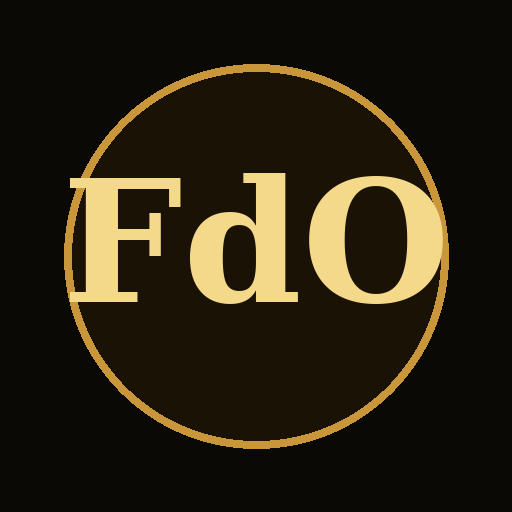
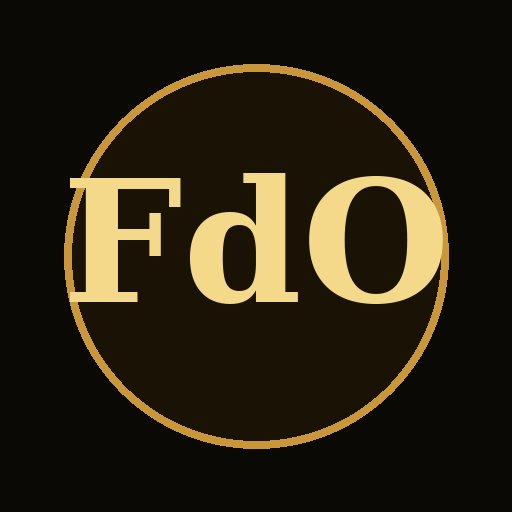
Add files via upload

Changed region(s): [[0.0938, 0.0938, 0.875, 0.875], [0.0, 0.0, 1.0, 1.0]]

diff --git a/index.html b/index.html
@@ -2,27 +2,30 @@
 <html lang="pt-BR">
 <head>
   <!-- ════════════════════════════════════════════════════════════
-       FOLHADOS D'OURO — OBS 16/06/2026 (atualização v11)
-       NOVIDADES v11:
-       • ALARME do batimento muito mais forte: sequência de 6 apitos
-         altos e longos + vibração + voz REPETIDA (toca mesmo com o
-         autofalante desligado). Áudio destravado ao tocar "Iniciar batida".
-       • ORDEM DOS ITENS no porcionamento: Balde 1 (secos) → SAL e
-         MANTEIGA → Balde 2 (água/gelo e leite) → Aproveitamento.
-       • Balde 1 concluído: o cartão do passo é ocultado para os botões
-         "Continuar receita →" / "+ Outro balde" caberem e serem clicáveis.
-       • Botões de navegação (Voltar/Repetir/Próximo) agora encolhem e
-         cabem em telas estreitas (não cortam mais).
-       --- base v10 ---
-       • Bater a Massa cronometrado (confere balde 1 e 2, avisos por tempo,
-         peso ÷8). Tempos no Config (4/6/3/2). Calculadora no porcionamento
-         e batimento + por voz. Etiqueta inclui líquidos do balde 2.
-         Receita 2: aproveitamento 3000 g.
-       --- base v9/v8/v7 ---
-       • Etiqueta 60×50 (MDK-022 BT/imagem). Lotes (apagar cascata,
-         reiniciar numeração). Fermentação (mín/máx). PIN só no
-         Porcionamento. Autofalante 🔊/🔇. Divisão por voz. Wake Lock.
-       • Service Worker: cache fdo-v11.
+       FOLHADOS D'OURO — OBS 18/06/2026 (atualização v13)
+       NOVIDADES v13 (porcionamento de secos + bater a massa):
+       • Temperatura da Noite: agora só DUAS opções, ambas 17°C, escolhidas
+         pelo tempo de fermentação — fermento 70 g (14 h) ou 64 g (17 h).
+       • No 1º passo dos secos, "Voltar" sai para o menu inicial (antes
+         não fazia nada).
+       • Entre farinhas do mesmo balde, a voz não diz mais "Concluído";
+         fala só o nome da farinha e o total acumulado.
+       • Finalização dos secos: removida a opção "+ Outro balde de secos"
+         (cada porcionamento de secos já gera um novo lote).
+       • Voz ao finalizar: só "concluído + número do lote" (sem "marque na
+         massa" e sem "imprima a etiqueta"); o aviso na tela continua.
+       • Bater a Massa: o balde 1 mostra também fermento (já no balde),
+         sal e manteiga (pesados à parte p/ o batimento).
+       --- base v12 ---
+       • Porcionamento dividido em Secos (gera lote + etiqueta) e Líquidos.
+         Bater a Massa só com secos E líquidos prontos. Receita 3 PADRÃO.
+         Senha própria das Configurações. Microfone já ligado no peso do
+         batimento. Cronômetro resiste ao segundo plano. Impressão MDK-022
+         com seletor ESC/POS · TSPL · CPCL, teste rápido e diagnóstico.
+       --- base v11/v10/v9/v8/v7 ---
+       • Alarme forte do batimento. Lotes numerados/apagáveis. Fermentação.
+         PIN do Porcionamento. Autofalante 🔊/🔇. Calculadora. Wake Lock.
+       • Service Worker: cache fdo-v13.
        ════════════════════════════════════════════════════════════ -->
   <meta charset="UTF-8">
   <meta name="viewport" content="width=device-width,initial-scale=1,maximum-scale=1,user-scalable=no,viewport-fit=cover">
@@ -192,6 +195,7 @@
     .temp-btn:active{opacity:.8;transform:scale(.97)}
     .temp-c{font-size:1.6rem;font-weight:bold;color:var(--gold);line-height:1}
     .temp-f{font-size:.72rem;color:var(--mut)}
+    .temp-horas{font-size:.7rem;color:var(--gl);font-weight:bold;margin-top:.1rem}
 
     /* ══ CONFIG ══ */
     #s-config{padding:1.5rem 1.3rem;gap:.7rem;justify-content:flex-start;overflow-y:auto}
@@ -546,7 +550,7 @@
     <div class="start-icon">🌡️</div>
     <div class="start-brand">Folhados d'Ouro</div>
     <div class="start-title">Temperatura da Noite</div>
-    <div class="start-sub">Quantos graus estão previstos?</div>
+    <div class="start-sub">Escolha o tempo de fermentação</div>
   </div>
   <div class="modulos-label">Define a quantidade de fermento seco</div>
   <div class="temp-grid" id="temp-grid"></div>
@@ -579,13 +583,12 @@
   </div>
   <div class="pergunta-secos" id="pergunta-secos"></div>
   <div class="nav" id="nav-normal">
-    <button class="nbtn" onclick="irPasso(st.step-1)">← Voltar</button>
+    <button class="nbtn" onclick="voltarPasso()">← Voltar</button>
     <button class="nbtn" onclick="repetir()">🔊 Repetir</button>
     <button class="nbtn next" onclick="avancar()">Próximo →</button>
   </div>
   <div class="nav-secos" id="nav-secos">
     <button class="nbtn next secos-continuar" onclick="finalizarSecos()">Finalizar e gerar lote →</button>
-    <button class="nbtn secos secos-novo" onclick="iniciarOutroBaldeSecos()">+ Outro balde de secos</button>
   </div>
   <div class="list" id="lista"></div>
   <div class="ai" id="ai-box" style="display:none">
@@ -848,7 +851,17 @@
 
 <script>
 // Fermento seco em gramas por temperatura prevista para a noite
+// (tabela mantida para conferência de lotes antigos)
 const TEMP_FERMENTO = {15:120,16:112,17:104,18:96,19:90,20:84,21:78,22:74,23:68,24:64};
+
+// Opções de fermento mostradas na tela "Temperatura da Noite".
+// Hoje são duas, ambas a 17°C, escolhidas pelo TEMPO de fermentação desejado:
+//   • mais fermento  → fermenta mais rápido (menos horas)
+//   • menos fermento → fermenta mais devagar (mais horas)
+const OPCOES_FERMENTO = [
+  {temp:17, fermento:70, horas:14},
+  {temp:17, fermento:64, horas:17},
+];
 
 // Peso do balde 1 vazio (tara), para conferência na balança
 const PESO_BALDE1 = 474;
@@ -978,7 +991,7 @@ const CMD = {
 };
 function matchCmd(txt,g){return CMD[g].some(p=>txt.includes(p));}
 
-const st={step:0,done:new Set(),sessionStart:0,rec:null,aiTimer:null,ts:0,temp:null,receita:'r1',modo:'normal',subModulo:'secos',baldeSecos:1,wakeLock:null,
+const st={step:0,done:new Set(),sessionStart:0,rec:null,aiTimer:null,ts:0,temp:null,fermento:null,fermentoHoras:null,receita:'r1',modo:'normal',subModulo:'secos',baldeSecos:1,wakeLock:null,
   pinBuf:'',pinAlvo:null,pinTipo:'producao',batLote:null,liqLote:null,batTemp:20,batStart:0,batRodando:false,batRecPeso:null,
   ultimoLoteId:null,calcRet:'start',calcAberta:false,etqLote:null,etqRet:'start',
   fermLote:null,fermStart:0,fermMin:24,fermMax:28};
@@ -1159,7 +1172,7 @@ function criarLoteSecos(){
     criado:agora.toLocaleString('pt-BR'), criadoTs:agora.getTime(),
     etapas:{ porcionamento_secos:{
       feito:true, em:agora.toLocaleString('pt-BR'), emTs:agora.getTime(),
-      op:getOp(), temp:st.temp, baldes_secos:st.baldeSecos||1,
+      op:getOp(), temp:st.temp, fermento_g:st.fermento, fermento_horas:st.fermentoHoras, baldes_secos:st.baldeSecos||1,
       total_g:totalReceitaFull(st.receita), peso_secos_g:pesoBaldeSecosAtual(),
       concluidos:st.done.size, total:RECEITA.length,
       dur:Math.round((Date.now()-st.sessionStart)/60000)
@@ -1280,13 +1293,31 @@ function getBatT3(){ return Number(LS.g('fdo_bat_t3',3))||3; }   // depois → m
 function getBatT4(){ return Number(LS.g('fdo_bat_t4',2))||2; }   // depois → ponto de véu (22°C)
 function getBatDiv(){ return Number(LS.g('fdo_bat_div',8))||8; } // partes para gelar
 
+// Fermento (g) deste lote: prefere o valor gravado; cai p/ a tabela por temperatura; por fim, o padrão da receita
+function loteFermentoG(lote){
+  const e=(lote&&lote.etapas)||{};
+  const ps=e.porcionamento_secos||e.porcionamento||{};
+  if(ps.fermento_g!=null) return ps.fermento_g;
+  const t=ps.temp;
+  if(t!=null && TEMP_FERMENTO[t]!=null) return TEMP_FERMENTO[t];
+  const r=RECEITAS[lote.receita];
+  if(r){ const f=(r.passos||[]).find(p=>p.cat==='FERMENTO'); if(f) return f.g; }
+  return null;
+}
+// Sal e manteiga (g) deste lote, a partir da receita (pesados à parte; entram no batimento)
+function loteSalManteiga(lote){
+  const r=RECEITAS[lote.receita]; if(!r) return {sal:null,manteiga:null};
+  let sal=null,manteiga=null;
+  (r.passos||[]).forEach(p=>{ if(p.grupo==='SAL E MANTEIGA'){ if(p.cat==='SAL')sal=p.g; else if(p.cat==='GORDURA')manteiga=p.g; } });
+  return {sal,manteiga};
+}
 // Pesos esperados a partir da receita do lote
 function pesoBalde1Lote(lote){
   const r=RECEITAS[lote.receita]; if(!r) return null;
-  const t=(lote.etapas&&lote.etapas.porcionamento)?lote.etapas.porcionamento.temp:null;
+  const ferm=loteFermentoG(lote);
   let s=0;
   r.passos.forEach(p=>{ if((p.grupo||'').startsWith('BALDE 1')){
-    if(p.cat==='FERMENTO'){ s += (t!=null&&TEMP_FERMENTO[t]!=null)?TEMP_FERMENTO[t]:p.g; }
+    if(p.cat==='FERMENTO'){ s += (ferm!=null?ferm:p.g); }
     else s+=p.g;
   }});
   return s;
@@ -1343,7 +1374,18 @@ function batConfirmarTemp(){
   // Balde 1
   const b1=pesoBalde1Lote(lote);
   const a1=document.getElementById('bat-b1-alvo'), d1=document.getElementById('bat-b1-det');
-  if(b1!=null){ a1.textContent=formatPeso(b1+PESO_BALDE1); d1.textContent='Ingredientes do balde 1 ('+formatPeso(b1)+') + balde ('+PESO_BALDE1+' g).'; }
+  if(b1!=null){
+    a1.textContent=formatPeso(b1+PESO_BALDE1);
+    const ferm=loteFermentoG(lote); const sm=loteSalManteiga(lote);
+    let txt='Ingredientes do balde 1 ('+formatPeso(b1);
+    if(ferm!=null) txt+=', já com fermento '+formatPeso(ferm);
+    txt+=') + balde ('+PESO_BALDE1+' g).';
+    const extra=[];
+    if(sm.sal!=null) extra.push('sal '+formatPeso(sm.sal));
+    if(sm.manteiga!=null) extra.push('manteiga '+formatPeso(sm.manteiga));
+    if(extra.length) txt+=' À parte p/ o batimento: '+extra.join(' · ')+'.';
+    d1.textContent=txt;
+  }
   else{ a1.textContent='—'; d1.textContent='Confira o balde 1 conforme a receita (lote antigo sem dados).'; }
   setBatFase('balde1');
   falar(b1!=null?`Temperatura ${st.batTemp} graus. Confira o peso do balde 1: ${falaPeso(b1+PESO_BALDE1)}.`:'Confira o peso do balde 1.');
@@ -1923,16 +1965,27 @@ async function buscarPrevisaoMadrugada() {
   }
 }
 
-// Tela de seleção: agora alimentada após o clique do botão de prosseguir
+// Tela de seleção: mostra as duas opções de fermento (17°C, por tempo de fermentação)
 function escolherTemp(){
   const grid=document.getElementById('temp-grid');
-  grid.innerHTML=Object.keys(TEMP_FERMENTO).map(t=>
-    `<button class="temp-btn" onclick="setTemp(${t})"><div class="temp-c">${t}°C</div><div class="temp-f">fermento ${TEMP_FERMENTO[t]} g</div></button>`
+  grid.innerHTML=OPCOES_FERMENTO.map((o,idx)=>
+    `<button class="temp-btn" onclick="setTempOpcao(${idx})"><div class="temp-c">${o.temp}°C</div><div class="temp-f">fermento ${o.fermento} g</div><div class="temp-horas">${o.horas} horas fermentação</div></button>`
   ).join('');
   ir('temp');
 }
+// Aplica a opção escolhida (define temperatura, fermento e o tempo de fermentação)
+function setTempOpcao(idx){
+  const o=OPCOES_FERMENTO[idx]; if(!o) return;
+  st.temp=o.temp;
+  st.fermento=o.fermento;
+  st.fermentoHoras=o.horas;
+  const i=RECEITA.findIndex(p=>p.cat==='FERMENTO');
+  if(i>=0){RECEITA[i].g=o.fermento;RECEITA[i].qty=o.fermento+' g';RECEITA[i].det=`Para ${o.temp}°C · ${o.horas} horas de fermentação`;}
+  iniciarSecos();
+}
+// (compat) seleção antiga por temperatura da tabela
 function setTemp(t){
-  st.temp=t;
+  st.temp=t; st.fermento=TEMP_FERMENTO[t]; st.fermentoHoras=null;
   const i=RECEITA.findIndex(p=>p.cat==='FERMENTO');
   if(i>=0){RECEITA[i].g=TEMP_FERMENTO[t];RECEITA[i].qty=TEMP_FERMENTO[t]+' g';RECEITA[i].det=`Quantidade para ${t}°C previstos na noite`;}
   iniciarSecos();
@@ -2035,7 +2088,7 @@ function iniciarVoz(){
     if(st.subModulo==='liquidos'){
       falar(`Porcionamento de líquidos. ${grupoFala(RECEITA[0].grupo)}. `+frasePasso(0));
     }else{
-      falar(`${st.temp} graus previstos. Porcionamento de secos. Balde de secos. `+frasePasso(0));
+      falar(`${st.temp} graus previstos${st.fermentoHoras?(', fermento para '+st.fermentoHoras+' horas de fermentação'):''}. Porcionamento de secos. Balde de secos. `+frasePasso(0));
     }
   },900);
 }
@@ -2141,13 +2194,8 @@ function processarComando(txt,alt){
     if(d){responderDivisao(d.a,d.b);return;}
   }
 
-  // 2) Modo PÓS-SECOS: aguardando escolha entre "outro balde de secos" ou continuar
+  // 2) Modo PÓS-SECOS: aguardando confirmação para finalizar e gerar o lote
   if(st.modo==='pos_secos'){
-    // Verifica "só secos" primeiro (mais específico)
-    for(const t of todas){
-      if(matchCmd(t,'so_secos')){iniciarOutroBaldeSecos();return;}
-    }
-    // Depois verifica continuar (inclui também "continua", "próximo", "feito" etc.)
     for(const t of todas){
       if(matchCmd(t,'continua_receita')||matchCmd(t,'avancar')){continuarReceita();return;}
       if(matchCmd(t,'voltar')){irPasso(st.step-1);st.modo='normal';mostrarPerguntaSecos(false);return;}
@@ -2162,7 +2210,7 @@ function processarComando(txt,alt){
   for(const t of todas){
     const som=ehComandoSom(t); if(som!==null){ aplicarComandoSom(som); return; }
     if(matchCmd(t,'avancar')){avancar();return;}
-    if(matchCmd(t,'voltar')){irPasso(st.step-1);return;}
+    if(matchCmd(t,'voltar')){voltarPasso();return;}
     if(matchCmd(t,'repetir')){repetir();return;}
     if(matchCmd(t,'pausar')){speechSynthesis?.cancel();mostrarAI('Pausado. Diga continuar quando pronto.');return;}
   }
@@ -2230,6 +2278,19 @@ function frasePasso(i){
 
 function irPasso(n){st.step=Math.max(0,Math.min(n,RECEITA.length-1));atualizarUI();falar(frasePasso(st.step));}
 
+// "Voltar": no PRIMEIRO passo, sai para o menu inicial (sem salvar sessão);
+// nos demais passos, volta um passo normalmente.
+function voltarPasso(){
+  if(st.step===0){
+    pararVoz(); liberarWakeLock();
+    st.sessionStart=0; st.modo='normal'; st.baldeSecos=1; st.liqLote=null;
+    mostrarPerguntaSecos(false);
+    ir('start');
+    return;
+  }
+  irPasso(st.step-1);
+}
+
 // Verifica se o passo `i` é o ÚLTIMO dos secos do balde 1
 // Soma só os ingredientes do BALDE 1 · SECOS na fase atual (exclui SAL E MANTEIGA)
 function pesoBaldeSecosAtual(){
@@ -2239,11 +2300,11 @@ function pesoBaldeSecosAtual(){
 function ehUltimoSecos(i){ return st.subModulo==='secos' && i===RECEITA.length-1; }
 function primeiroSecosIdx(){ return 0; }
 
-// Texto de conferência/pergunta pós-secos (peso do balde de secos = só BALDE 1)
+// Texto de conferência/confirmação pós-secos (peso do balde de secos = só BALDE 1)
 function textoPerguntaSecos(){
   const ing=pesoBaldeSecosAtual();
   const alvo=ing+PESO_BALDE1;
-  return `Balde ${st.baldeSecos} de secos concluído. Conferir: peso total, com o balde de ${falaPeso(PESO_BALDE1)} mais os secos, é ${falaPeso(alvo)}. Finaliza e gera o lote, ou faz outro balde de secos?`;
+  return `Secos concluídos. Conferir: peso total, com o balde de ${falaPeso(PESO_BALDE1)} mais os secos, é ${falaPeso(alvo)}. Finalize e gere o lote.`;
 }
 
 function avancar(){
@@ -2270,6 +2331,11 @@ function avancar(){
   }
   st.step=n;atualizarUI();
   const p=RECEITA[st.step];
+  // Entre farinhas do mesmo balde de secos: não diz "Concluído"; só o nome e o total acumulado
+  if(p.cat==='FARINHA' && p.grupo===gAnt){
+    falar(`${p.nome}. Total, ${falaPeso(baldeTotalAte(st.step))}.`);
+    return;
+  }
   let pre='Concluído. ';
   if(p.grupo!==gAnt){
     pre=`Concluído. Próximo, ${grupoFala(p.grupo)}. `;
@@ -2280,18 +2346,7 @@ function avancar(){
 // ─── PÓS-SECOS: continuar = finalizar e gerar o lote (compat com o comando de voz) ───
 function continuarReceita(){ finalizarSecos(); }
 
-// ─── PÓS-SECOS: iniciar outro balde de secos com a mesma temperatura ───
-function iniciarOutroBaldeSecos(){
-  st.modo='normal';
-  st.baldeSecos=(st.baldeSecos||1)+1;
-  mostrarPerguntaSecos(false);
-  st.done=new Set();   // recomeça os secos do zero
-  st.step=0;
-  atualizarUI();
-  falar(`Balde ${st.baldeSecos} de secos. ${st.temp} graus previstos. `+frasePasso(st.step));
-}
-
-// Repete a pergunta de finalizar / outro balde
+// Repete a confirmação de finalizar
 function repetirPerguntaSecos(){ falar(textoPerguntaSecos()); }
 
 // Alterna entre a navegação normal e a barra de pergunta pós-secos
@@ -2368,7 +2423,7 @@ function finalizarSecos(){
   document.getElementById('done-mark').textContent='✍️ Marque este número na massa';
   document.getElementById('done-etq-btn').style.display='';
   document.getElementById('done-tot').innerHTML=`<div class="done-conf">Total da massa (secos + líquidos)</div><div class="done-val">${tot}</div>`;
-  falar(`Porcionamento de secos concluído. Lote número ${lote.num}. Marque o número ${lote.num} na massa. Agora imprima a etiqueta.`);
+  falar(`Porcionamento de secos concluído. Lote número ${lote.num}.`);
   setTimeout(()=>ir('done'),1500);
 }
 

diff --git a/sw.js b/sw.js
@@ -1,20 +1,23 @@
 // Folhados d'Ouro — Service Worker
-// OBS 18/06/2026: cache fdo-v12 —
-//   • Porcionamento dividido em DOIS: Secos (gera o lote + etiqueta) e
-//     Líquidos (continua um lote já com os secos prontos; sem etiqueta).
+// OBS 18/06/2026: cache fdo-v13 —
+//   • Temperatura da Noite: só DUAS opções (ambas 17°C), por tempo de
+//     fermentação — fermento 70 g (14 h) ou 64 g (17 h).
+//   • Secos: "Voltar" no 1º passo sai para o menu inicial.
+//   • Entre farinhas, a voz fala só o nome e o total (sem "Concluído").
+//   • Finalização dos secos sem "+ Outro balde de secos".
+//   • Voz ao finalizar só diz "concluído + número do lote".
+//   • Bater a Massa: balde 1 mostra fermento, sal e manteiga.
+//   --- base v12 ---
+//   • Porcionamento dividido em Secos (gera lote + etiqueta) e Líquidos.
 //   • Bater a Massa só libera lotes com Secos E Líquidos prontos.
-//   • Receita 3 PADRÃO: Bagatelle 3600 g + Italiana 4400 g (sem Feuilletage).
-//   • Senha própria das Configurações (padrão 456), pedida toda vez.
-//   • Bater a Massa: microfone JÁ LIGADO no campo de peso (fala ou digita).
-//   • Cronômetro do batimento resiste a sair do app (retoma ao voltar);
-//     só sai por comando claro (confirmação). Wake Lock durante a batida.
-//   • Impressão MDK-022: seletor de linguagem (ESC/POS · TSPL · CPCL),
-//     teste rápido e diagnóstico de serviços/características Bluetooth.
+//   • Receita 3 PADRÃO; senha própria das Configurações; microfone já
+//     ligado no peso do batimento; cronômetro resiste ao segundo plano;
+//     impressão MDK-022 (ESC/POS · TSPL · CPCL) com teste e diagnóstico.
 //   --- mantido das versões anteriores ---
 //   • Lotes numerados/apagáveis, PIN do Porcionamento, autofalante, calculadora,
 //     previsão de madrugada (Open-Meteo), Gemini no contexto da receita.
 // IMPORTANTE: a cada publicação, troque a versão (fdo-vN) para o celular atualizar.
-const CACHE = 'fdo-v12';
+const CACHE = 'fdo-v13';
 
 self.addEventListener('install', e => {
   e.waitUntil(